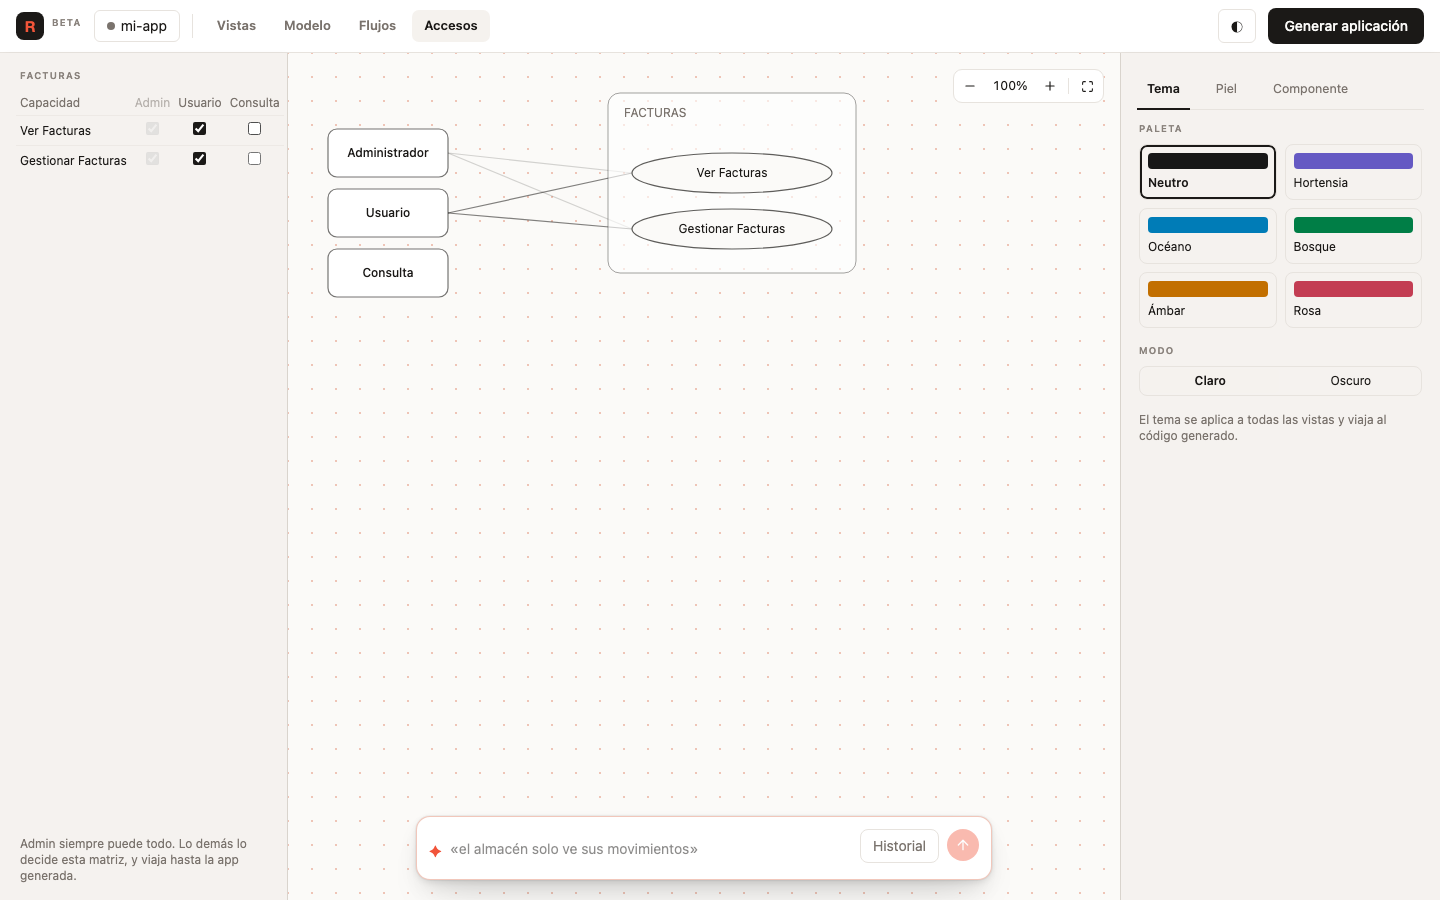
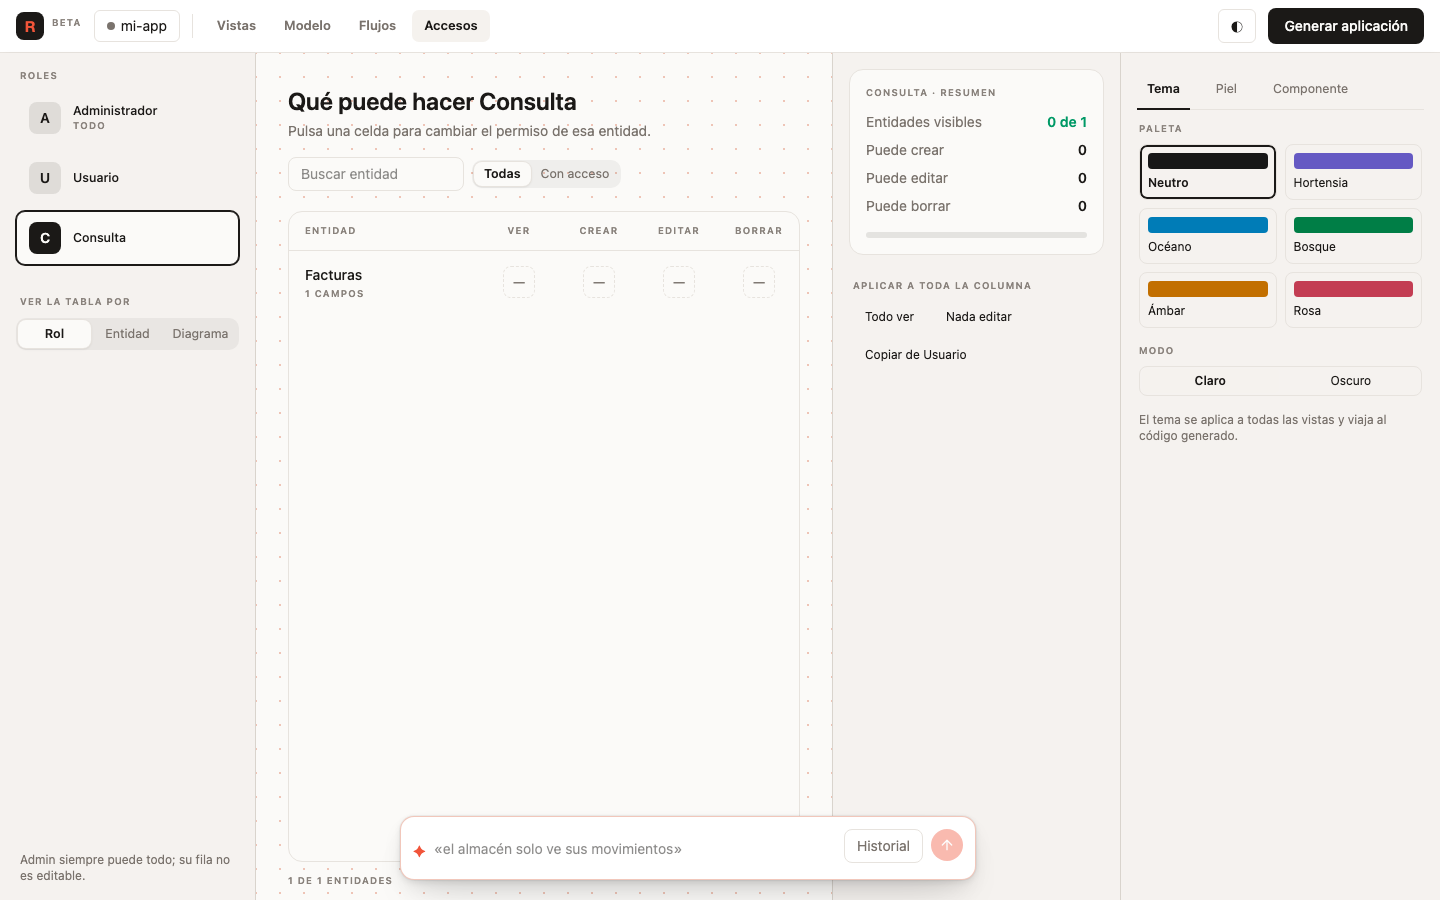
chore(studio): access smoke covers the facelift and captures both themes
New flow: role table with the default policy, fixed admin cells,
summary reacting to a revoked view, granular matrix in the exported
schema, entity pivot and the diagram. Active pivot/filter chips gain a
ring so they stay visible in dark; screenshots wait out the color
transition to avoid half-faded pills.

diff --git a/apps/studio/tools/smoke-access.ts b/apps/studio/tools/smoke-access.ts
@@ -1,8 +1,8 @@
 /**
- * Smoke del modo ACCESOS (spec 46): una entidad, la pestaña Accesos pinta el raíl con la
- * matriz y el lienzo con el diagrama de casos de uso derivado. Quitar «Ver» a Consulta
- * hace desaparecer su arista del diagrama y deja la matriz explícita en el schema
- * exportado. Solo lectura en el lienzo: el raíl edita, el diagrama reacciona.
+ * Smoke del modo ACCESOS (spec 49): raíl de roles + tabla entidad×capacidad (Ver/Crear/
+ * Editar/Borrar), panel de resumen con acciones de columna, pivote Entidad y el diagrama
+ * de casos de uso (spec 46) como tercer pivote. Quitar «Ver» a Consulta deja la matriz
+ * granular explícita en el schema exportado y tumba su arista del diagrama.
  *
  *   npx tsx tools/smoke-access.ts   (con `npm run web` corriendo)
  *   BASE_URL y SHOTS_DIR opcionales (capturas solo si SHOTS_DIR está definido)
@@ -13,7 +13,10 @@ const BASE = process.env['BASE_URL'] ?? 'http://localhost:4316'
 const SHOTS = process.env['SHOTS_DIR']
 
 async function shot(page: Page, name: string): Promise<void> {
-  if (SHOTS) await page.screenshot({ path: `${SHOTS}/${name}.png` })
+  if (!SHOTS) return
+  // deja terminar los transition-colors (150ms): si no, la captura pilla dos pills a medias
+  await page.waitForTimeout(300)
+  await page.screenshot({ path: `${SHOTS}/${name}.png` })
 }
 
 function fail(message: string): never {
@@ -36,33 +39,66 @@ async function main(): Promise<void> {
   await page.getByTestId('new-page-title').fill('Facturas')
   await page.getByTestId('new-page-ok').click()
 
-  // modo Accesos: raíl con la matriz y lienzo con el diagrama derivado
+  // modo Accesos: raíl de roles con Usuario activo y la tabla del rol
   await page.getByTestId('mode-access').click()
-  await page.getByTestId('access-entity-factura').waitFor()
-  await page.getByTestId('access-diagram').waitFor()
-  await page.getByTestId('access-edge-viewer-factura:view').waitFor()
-  await shot(page, 'smoke-access-1-politica-actual')
+  const userCard = page.getByTestId('access-role-user')
+  await userCard.waitFor()
+  if ((await userCard.getAttribute('aria-current')) !== 'true') fail('Usuario no llega activo por defecto')
+  const view = page.getByTestId('access-cell-factura-view')
+  if ((await view.getAttribute('aria-pressed')) !== 'true') fail('la política actual no marca Ver para Usuario')
+  await shot(page, 'smoke-access-1-tabla-rol')
+  console.log('✓ tabla por rol: Usuario activo con la política actual')
 
-  // el admin está fijo: marcado y deshabilitado
-  const admin = page.getByTestId('access-factura-view-admin')
-  if (!(await admin.isChecked()) || !(await admin.isDisabled())) fail('la columna Admin no va fija y marcada')
+  // admin se mira pero no se toca
+  await page.getByTestId('access-role-admin').click()
+  await page.getByText('Qué puede hacer Administrador').waitFor()
+  if (!(await page.getByTestId('access-cell-factura-delete').isDisabled())) fail('las celdas de admin no van fijas')
 
-  // quitar «Ver» a Consulta: su arista desaparece del diagrama
-  await page.getByTestId('access-factura-view-viewer').click()
-  await page.getByTestId('access-edge-viewer-factura:view').waitFor({ state: 'detached' })
-  // la de admin sigue: admin siempre puede todo
-  await page.getByTestId('access-edge-admin-factura:view').waitFor()
+  // Consulta pierde «Ver»: el resumen cae a 0 y la matriz explícita viaja al schema
+  await page.getByTestId('access-role-viewer').click()
+  await page.getByText('Qué puede hacer Consulta').waitFor()
+  await page.getByTestId('access-cell-factura-view').click()
+  await page
+    .getByTestId('access-cell-factura-view')
+    .and(page.locator('[aria-pressed="false"]'))
+    .waitFor()
+  const visibles = (await page.getByTestId('access-summary-view').textContent()) ?? ''
+  if (!visibles.includes('0 de 1')) fail(`el resumen no refleja la retirada de Ver: «${visibles.trim()}»`)
   await shot(page, 'smoke-access-2-viewer-sin-ver')
-  console.log('✓ diagrama: la arista de Consulta cae al desmarcar Ver; la de admin permanece')
 
-  // la matriz explícita viaja al schema exportado
   const json = (await page.getByTestId('schema-json').textContent()) ?? '{}'
-  const schema = JSON.parse(json) as { resources?: { name: string; access?: { view?: string[] } }[] }
+  const schema = JSON.parse(json) as { resources?: { name: string; access?: Record<string, string[]> }[] }
   const factura = schema.resources?.find(r => r.name === 'factura')
-  if (!factura?.access || JSON.stringify(factura.access.view) !== JSON.stringify(['user'])) {
-    fail(`el schema exportado no lleva la matriz esperada (access.view=['user']): ${JSON.stringify(factura?.access)}`)
+  const esperado = { view: ['user'], create: ['user'], edit: ['user'], delete: ['user'] }
+  if (JSON.stringify(factura?.access) !== JSON.stringify(esperado)) {
+    fail(`el schema exportado no lleva la matriz granular esperada: ${JSON.stringify(factura?.access)}`)
   }
-  console.log('✓ schema: access.view queda explícito y sin viewer')
+  console.log('✓ schema: la matriz granular queda explícita y sin viewer en Ver')
+
+  // pivote Entidad: filas de rol, admin fija
+  await page.getByTestId('access-pivot-entity').click()
+  const adminView = page.getByTestId('access-ecell-admin-view')
+  await adminView.waitFor()
+  if (!(await adminView.isDisabled())) fail('la fila de admin del pivote Entidad no va fija')
+  if ((await page.getByTestId('access-ecell-viewer-view').getAttribute('aria-pressed')) !== 'false') {
+    fail('el pivote Entidad no refleja la retirada de Ver a Consulta')
+  }
+  await shot(page, 'smoke-access-3-pivote-entidad')
+  console.log('✓ pivote Entidad: filas de rol coherentes con la matriz')
+
+  // pivote Diagrama: la arista de Consulta cayó; la de admin permanece
+  await page.getByTestId('access-pivot-diagram').click()
+  await page.getByTestId('access-diagram').waitFor()
+  await page.getByTestId('access-edge-viewer-factura:view').waitFor({ state: 'detached' })
+  await page.getByTestId('access-edge-admin-factura:view').waitFor()
+  await shot(page, 'smoke-access-4-diagrama')
+  console.log('✓ diagrama: sin arista de Consulta; admin siempre conectado')
+
+  // tema oscuro sobre la tabla por rol
+  await page.getByTestId('access-pivot-role').click()
+  await page.getByTestId('studio-theme').click()
+  await page.getByTestId('access-cell-factura-view').waitFor()
+  await shot(page, 'smoke-access-5-oscuro')
 
   if (errors.length) fail(`errores de página: ${errors.join(' · ')}`)
   await browser.close()

diff --git a/apps/studio/libs/frontend/src/domains/studio/design/access-table.component.ts b/apps/studio/libs/frontend/src/domains/studio/design/access-table.component.ts
@@ -155,6 +155,8 @@ const ROLE_ROWS: AccessActorRole[] = ['admin', 'user', 'viewer']
                 type="button"
                 class="studio-ui rounded-md px-2.5 py-1 text-xs transition-colors"
                 [class.bg-background]="!ui.onlyWithAccess()"
+                [class.ring-1]="!ui.onlyWithAccess()"
+                [class.ring-border]="!ui.onlyWithAccess()"
                 [class.shadow-sm]="!ui.onlyWithAccess()"
                 [class.font-semibold]="!ui.onlyWithAccess()"
                 [class.text-muted-foreground]="ui.onlyWithAccess()"
@@ -167,6 +169,8 @@ const ROLE_ROWS: AccessActorRole[] = ['admin', 'user', 'viewer']
                 type="button"
                 class="studio-ui rounded-md px-2.5 py-1 text-xs transition-colors"
                 [class.bg-background]="ui.onlyWithAccess()"
+                [class.ring-1]="ui.onlyWithAccess()"
+                [class.ring-border]="ui.onlyWithAccess()"
                 [class.shadow-sm]="ui.onlyWithAccess()"
                 [class.font-semibold]="ui.onlyWithAccess()"
                 [class.text-muted-foreground]="!ui.onlyWithAccess()"

diff --git a/apps/studio/libs/frontend/src/domains/studio/design/access-sidebar.component.ts b/apps/studio/libs/frontend/src/domains/studio/design/access-sidebar.component.ts
@@ -76,6 +76,8 @@ const PIVOTS: { pivot: AccessPivot; label: string }[] = [
               type="button"
               class="studio-ui flex-1 rounded-md px-2 py-1.5 text-center text-xs transition-colors"
               [class.bg-background]="option.pivot === ui.pivot()"
+              [class.ring-1]="option.pivot === ui.pivot()"
+              [class.ring-border]="option.pivot === ui.pivot()"
               [class.shadow-sm]="option.pivot === ui.pivot()"
               [class.font-semibold]="option.pivot === ui.pivot()"
               [class.text-muted-foreground]="option.pivot !== ui.pivot()"

diff --git a/.claude/specs/49-accesos-lavado-de-cara/TASKS.md b/.claude/specs/49-accesos-lavado-de-cara/TASKS.md
@@ -34,7 +34,7 @@
 - [x] **TASK-08**: pivote Entidad en `access-table.component.ts` (filas de rol, selector de
       entidad) y extracción del lienzo a `access-diagram-view.component.ts`; `access-view`
       queda como conmutador de los tres pivotes. Estados vacíos conservados.
-- [ ] **TASK-09**: repaso visual contra 30A/31B en claro y oscuro (temas, espaciados, activo
+- [x] **TASK-09**: repaso visual contra 30A/31B en claro y oscuro (temas, espaciados, activo
       del raíl) y actualización de `tools/smoke-access.ts` + capturas `smoke-access-*.png`.
 
 ## Fase 4 — Generador (fontanería)
